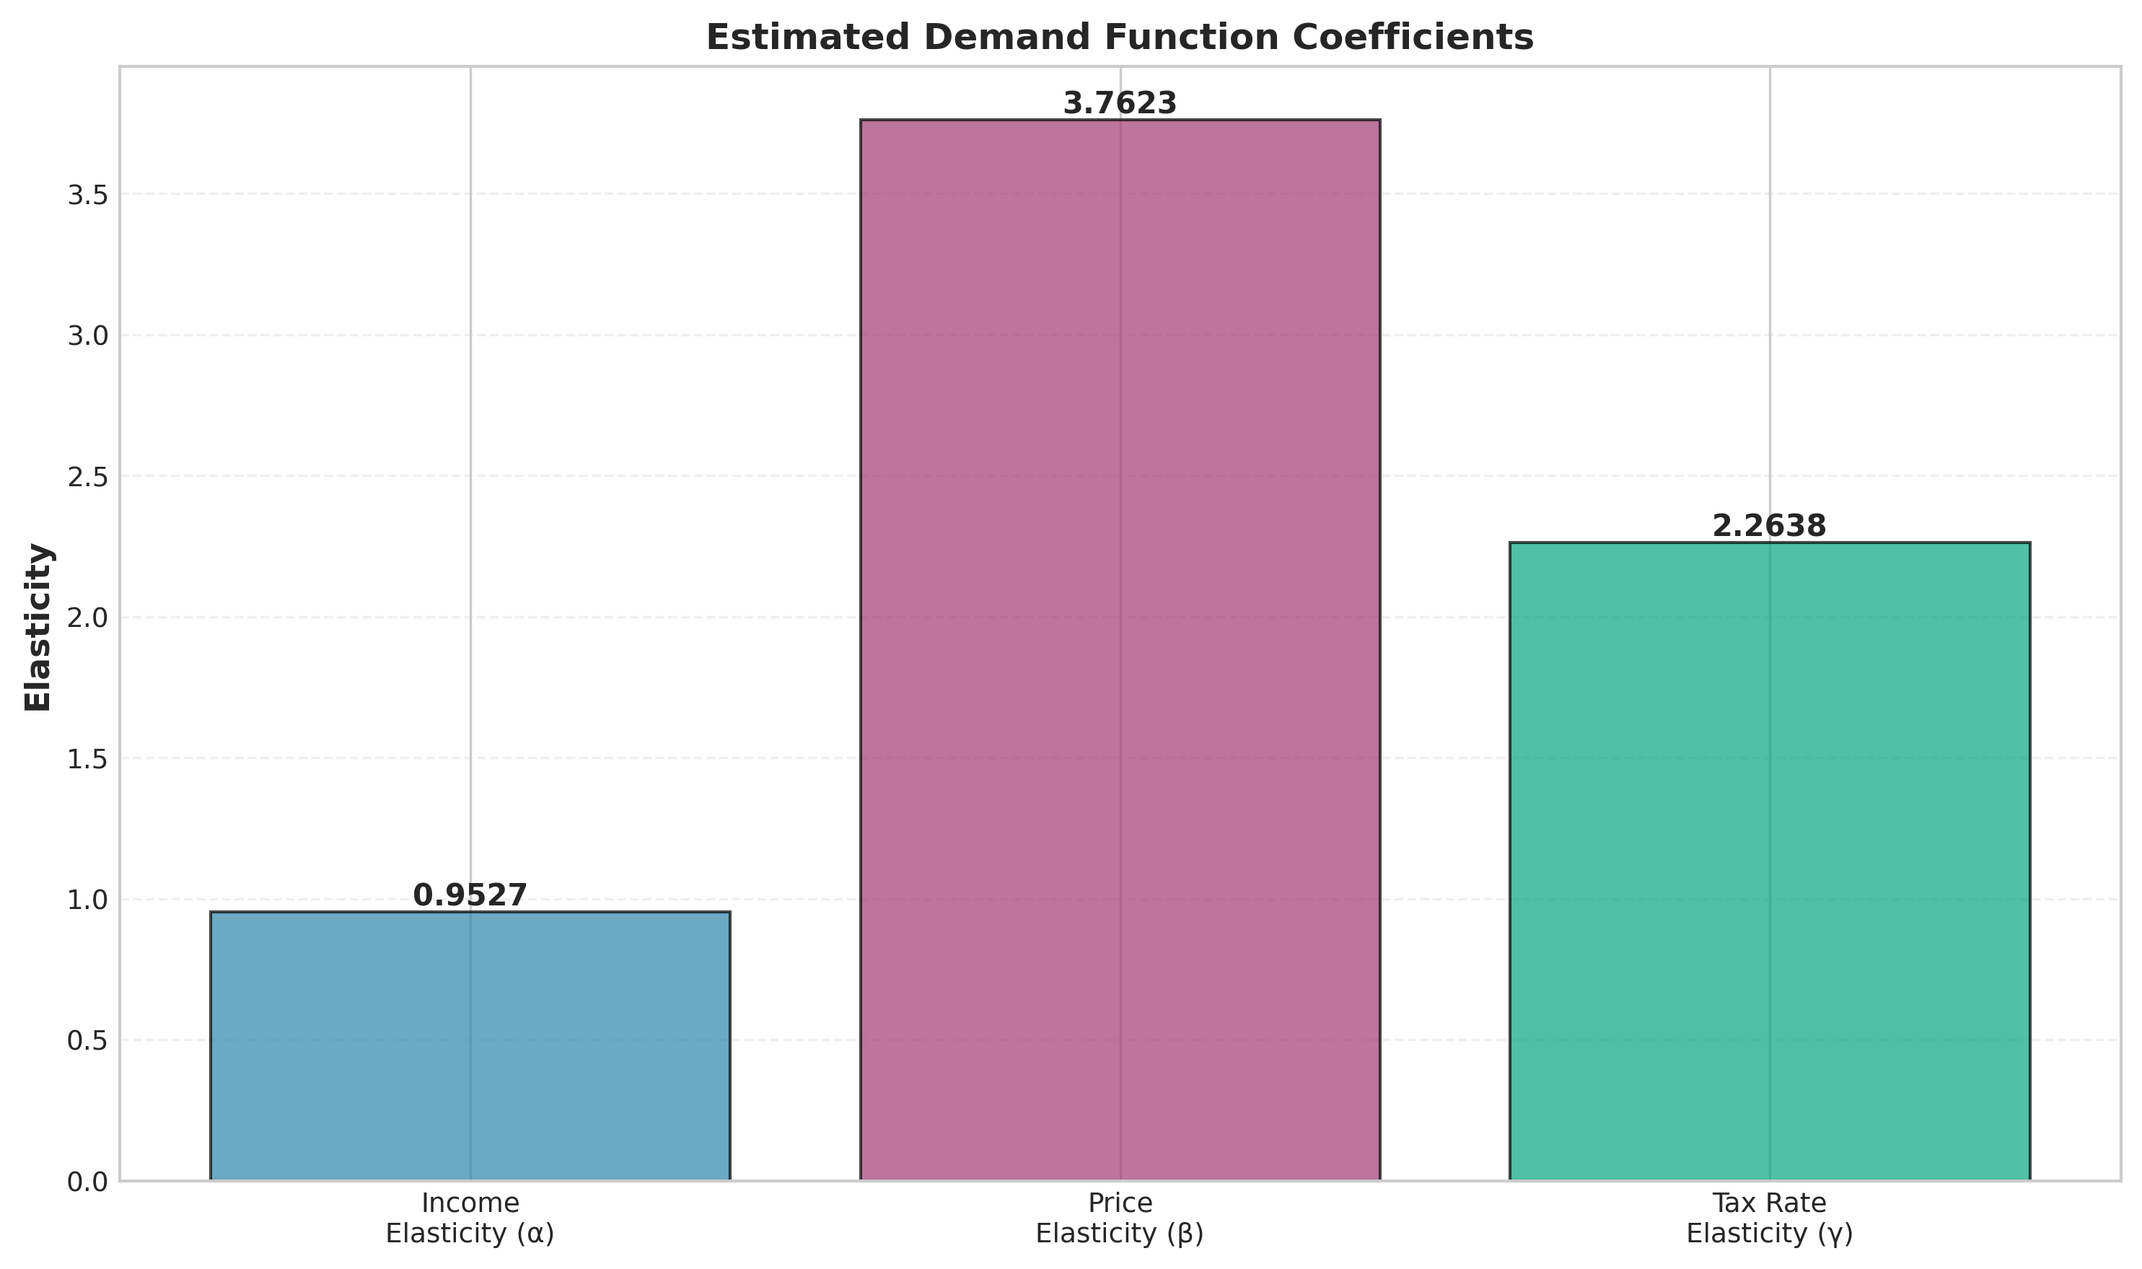
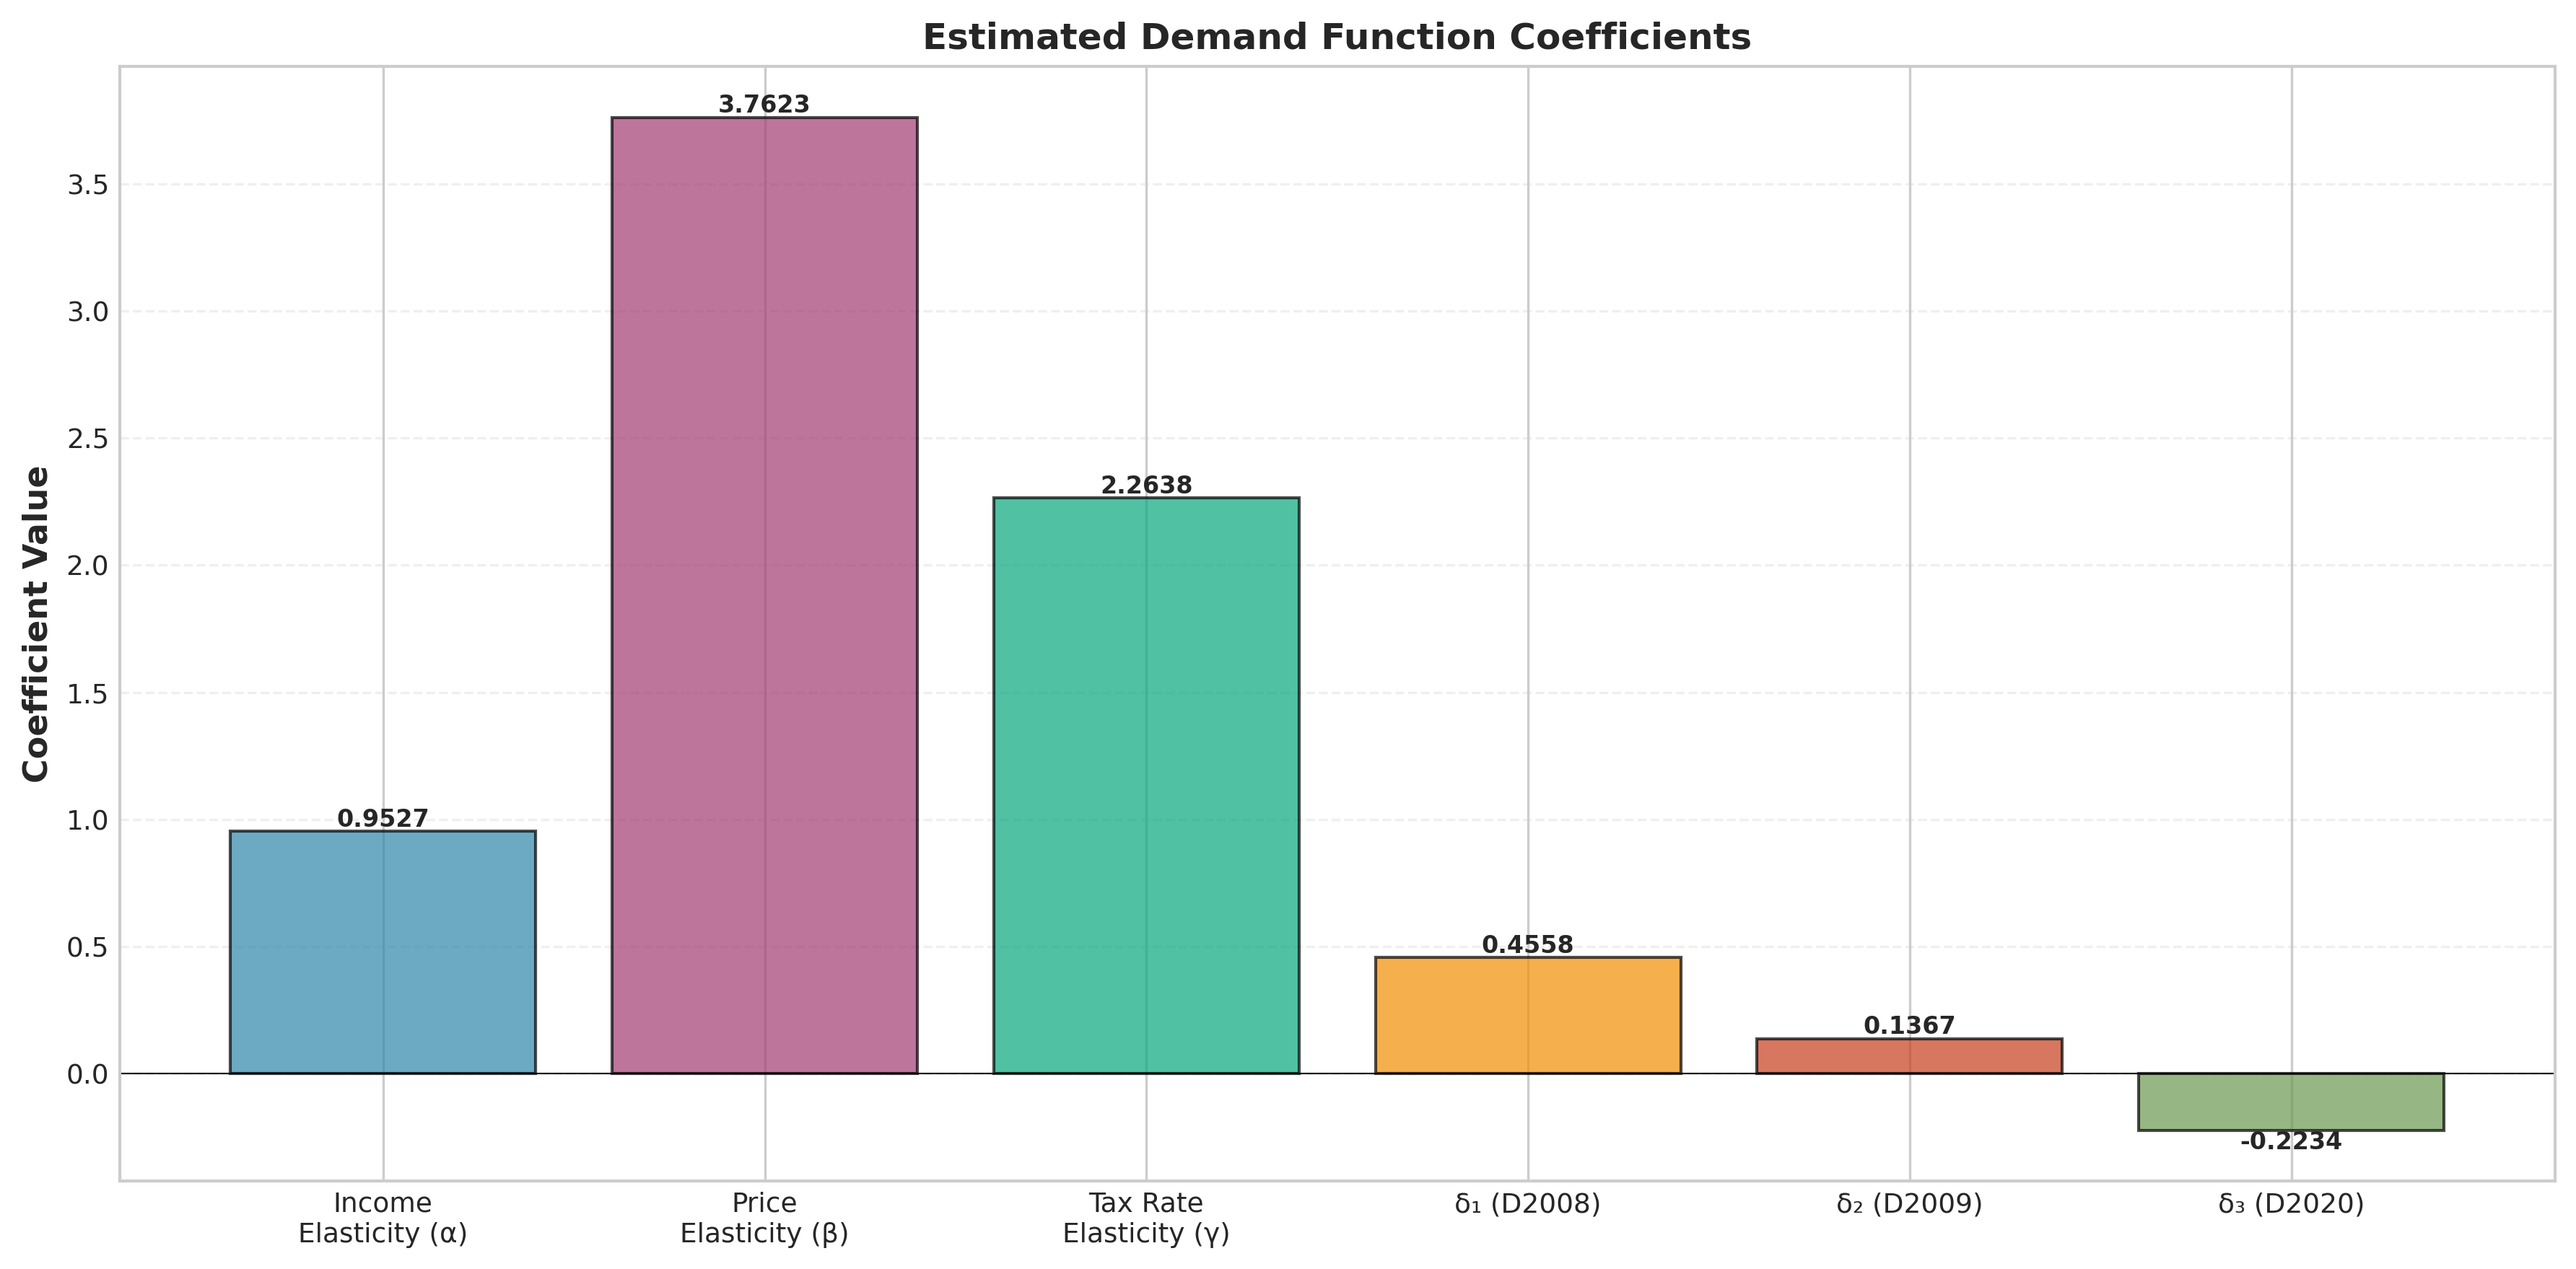
edit

diff --git a/analysis/03_visualize_results.py b/analysis/03_visualize_results.py
@@ -92,23 +92,45 @@ print(f"分析期間: {df_analysis['Year'].min()} - {df_analysis['Year'].max()}"
 # Graph 1: 需要関数の推定結果（係数の可視化）
 # ============================================================================
 print("\nCreating Graph 1: Demand Function Coefficients...")
-fig, ax = plt.subplots(figsize=(10, 6))
+fig, ax = plt.subplots(figsize=(12, 6))
 
+# 弾力性係数
 coeff_names = ['Income\nElasticity (α)', 'Price\nElasticity (β)', 'Tax Rate\nElasticity (γ)']
 coeff_values = [coefficients['alpha'], coefficients['beta'], coefficients['gamma']]
 colors = ['#2E86AB', '#A23B72', '#06A77D']
 
-bars = ax.bar(coeff_names, coeff_values, color=colors, alpha=0.7, edgecolor='black', linewidth=1)
+# ダミー変数の係数（2008→2009→2020の順）
+dummy_names = []
+dummy_values = []
+dummy_colors = []
+dummy_labels = {'D2008': 'δ₁ (D2008)', 'D2009': 'δ₂ (D2009)', 'D2020': 'δ₃ (D2020)'}
+dummy_color_map = {'D2008': '#F18F01', 'D2009': '#C73E1D', 'D2020': '#6A994E'}
+
+# 順番を2008→2009→2020に統一
+dummy_order = ['D2008', 'D2009', 'D2020']
+if 'dummy_variables' in coefficients:
+    for dummy_var in dummy_order:
+        if dummy_var in coefficients['dummy_variables']:
+            dummy_names.append(dummy_labels[dummy_var])
+            dummy_values.append(coefficients['dummy_variables'][dummy_var])
+            dummy_colors.append(dummy_color_map[dummy_var])
+
+# すべての係数を結合
+all_names = coeff_names + dummy_names
+all_values = coeff_values + dummy_values
+all_colors = colors + dummy_colors
+
+bars = ax.bar(all_names, all_values, color=all_colors, alpha=0.7, edgecolor='black', linewidth=1)
 
 # 値をバーの上に表示
-for bar, val in zip(bars, coeff_values):
+for bar, val in zip(bars, all_values):
     height = bar.get_height()
     ax.text(bar.get_x() + bar.get_width()/2., height,
             f'{val:.4f}',
-            ha='center', va='bottom' if height > 0 else 'top', fontweight='bold')
+            ha='center', va='bottom' if height > 0 else 'top', fontweight='bold', fontsize=8)
 
 ax.axhline(y=0, color='black', linestyle='-', linewidth=0.5)
-ax.set_ylabel('Elasticity', fontweight='bold')
+ax.set_ylabel('Coefficient Value', fontweight='bold')
 ax.set_title('Estimated Demand Function Coefficients', fontweight='bold')
 ax.grid(True, alpha=0.3, linestyle='--', axis='y')
 plt.tight_layout()
